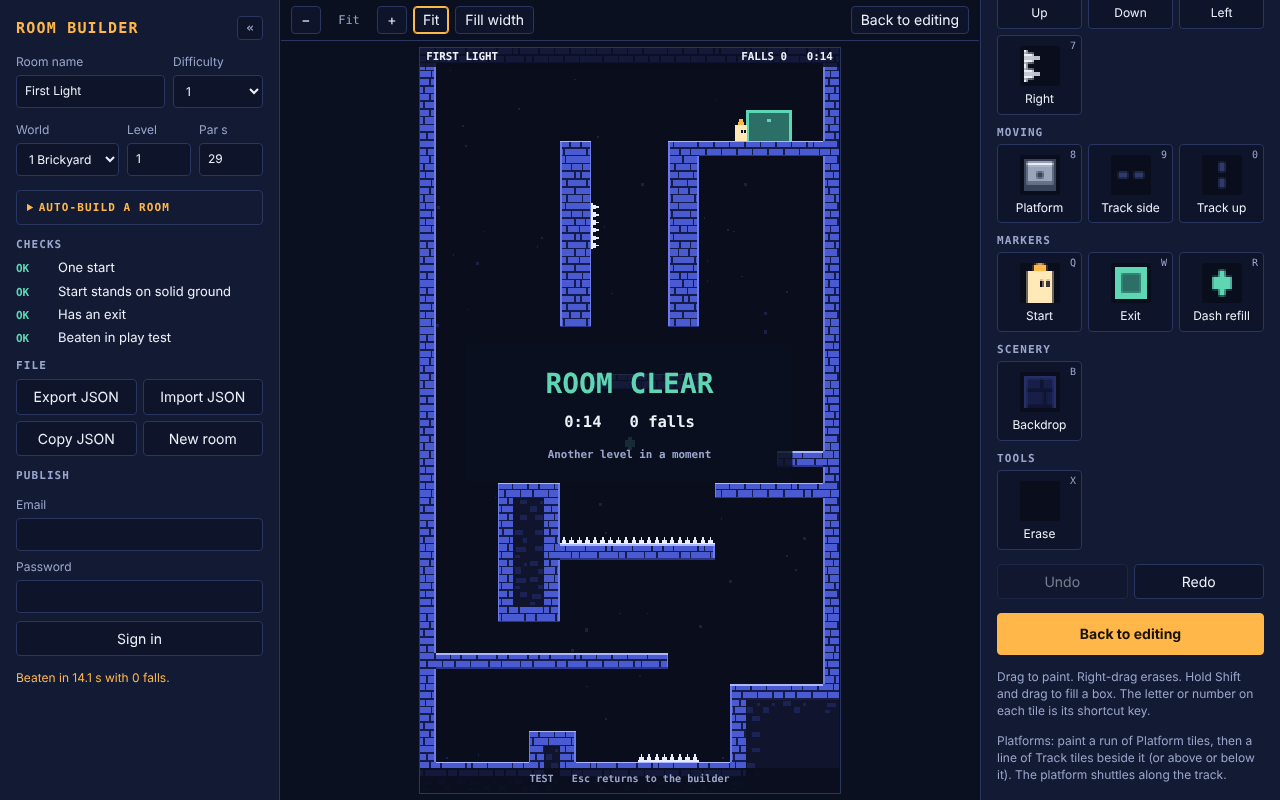
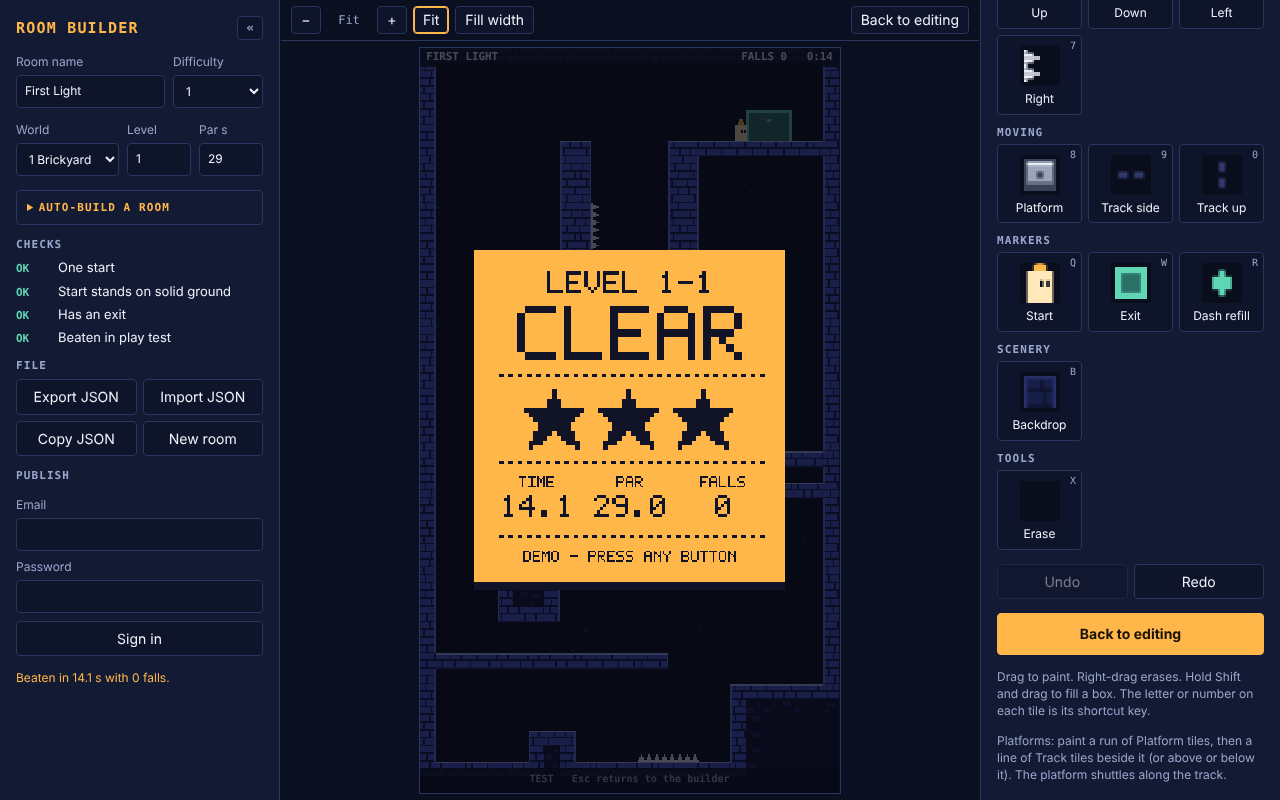
Demo shows the new level clear panel
Claude-Session: https://claude.ai/code/session_01NZkKt2otoYDRNuWNpVBUzY

Changed region(s): [[0.3125, 0.0625, 0.6562, 1.0]]

diff --git a/index.html b/index.html
@@ -636,6 +636,7 @@
     for (i = 0; i < exits.length; i++) if (overlap(exits[i], pl.x, pl.y, pl.w, pl.h)) {
       if (!testMode && !demo.on) { fx = { mode: 'exit', t: 0, x: pl.x, y: pl.y, facing: pl.facing }; return; }
       run.won = true;
+      if (demo.on) { var dp = parOf(room); run.result = { stars: 1 + (run.deaths <= STAR_FALLS ? 1 : 0) + (run.time <= dp ? 1 : 0), par: dp, next: false, pick: -1, py: 0, demo: true }; }
       if (embedded) window.parent.postMessage({ type: 'climber-result', won: true, time: run.time, deaths: run.deaths }, '*');
       return;
     }
@@ -1223,14 +1224,15 @@
     }
   }
   function drawClear(u) {
-    var rs = run.result, th = themeOf(room), INK = '#101426', btns = clearButtons(), top = 92, hh = 194 + btns.length * 32, i;
+    var rs = run.result, th = themeOf(room), INK = '#101426', btns = rs.demo ? [] : clearButtons(), top = rs.demo ? 130 : 92, hh = rs.demo ? 214 : 194 + btns.length * 32, i;
     function box(x, y, w, hgt, color) { h.fillStyle = color; h.fillRect(Math.round(x * u), Math.round(y * u), Math.round((x + w) * u) - Math.round(x * u), Math.round((y + hgt) * u) - Math.round(y * u)); }
     function dots(y) { for (var x = 51; x < 220; x += 6) box(x, y, 3, 2, INK); }
     hits = [];
     box(0, 0, LW, LH, 'rgba(7,9,20,0.72)');
     box(35, top + 5, 200, hh, INK);                                            // hard shadow
     box(35, top, 200, hh, th.accent);
-    pxText('LEVEL ' + (lvl.w + 1) + '-' + (lvl.i + 1), 135, top + 14, 2, INK, 'center');
+    pxText(rs.demo ? (room.level > 0 ? 'LEVEL ' + worldOf(room) + '-' + room.level : 'LEVEL') : 'LEVEL ' + (lvl.w + 1) + '-' + (lvl.i + 1), 135, top + 14, 2, INK, 'center');
+    if (rs.demo) { dots(top + 184); pxText('DEMO - PRESS ANY BUTTON', 135, top + 194, 1, INK, 'center'); }
     pxText('CLEAR', 135, top + 36, 5, INK, 'center');
     dots(top + 80);
     for (i = 0; i < 3; i++) pxStar(135 - 68 + i * 48, top + 90, 3, INK, i < rs.stars ? INK : null);

diff --git a/src/template.html b/src/template.html
@@ -518,6 +518,7 @@
     for (i = 0; i < exits.length; i++) if (overlap(exits[i], pl.x, pl.y, pl.w, pl.h)) {
       if (!testMode && !demo.on) { fx = { mode: 'exit', t: 0, x: pl.x, y: pl.y, facing: pl.facing }; return; }
       run.won = true;
+      if (demo.on) { var dp = parOf(room); run.result = { stars: 1 + (run.deaths <= STAR_FALLS ? 1 : 0) + (run.time <= dp ? 1 : 0), par: dp, next: false, pick: -1, py: 0, demo: true }; }
       if (embedded) window.parent.postMessage({ type: 'climber-result', won: true, time: run.time, deaths: run.deaths }, '*');
       return;
     }
@@ -1105,14 +1106,15 @@
     }
   }
   function drawClear(u) {
-    var rs = run.result, th = themeOf(room), INK = '#101426', btns = clearButtons(), top = 92, hh = 194 + btns.length * 32, i;
+    var rs = run.result, th = themeOf(room), INK = '#101426', btns = rs.demo ? [] : clearButtons(), top = rs.demo ? 130 : 92, hh = rs.demo ? 214 : 194 + btns.length * 32, i;
     function box(x, y, w, hgt, color) { h.fillStyle = color; h.fillRect(Math.round(x * u), Math.round(y * u), Math.round((x + w) * u) - Math.round(x * u), Math.round((y + hgt) * u) - Math.round(y * u)); }
     function dots(y) { for (var x = 51; x < 220; x += 6) box(x, y, 3, 2, INK); }
     hits = [];
     box(0, 0, LW, LH, 'rgba(7,9,20,0.72)');
     box(35, top + 5, 200, hh, INK);                                            // hard shadow
     box(35, top, 200, hh, th.accent);
-    pxText('LEVEL ' + (lvl.w + 1) + '-' + (lvl.i + 1), 135, top + 14, 2, INK, 'center');
+    pxText(rs.demo ? (room.level > 0 ? 'LEVEL ' + worldOf(room) + '-' + room.level : 'LEVEL') : 'LEVEL ' + (lvl.w + 1) + '-' + (lvl.i + 1), 135, top + 14, 2, INK, 'center');
+    if (rs.demo) { dots(top + 184); pxText('DEMO - PRESS ANY BUTTON', 135, top + 194, 1, INK, 'center'); }
     pxText('CLEAR', 135, top + 36, 5, INK, 'center');
     dots(top + 80);
     for (i = 0; i < 3; i++) pxStar(135 - 68 + i * 48, top + 90, 3, INK, i < rs.stars ? INK : null);
